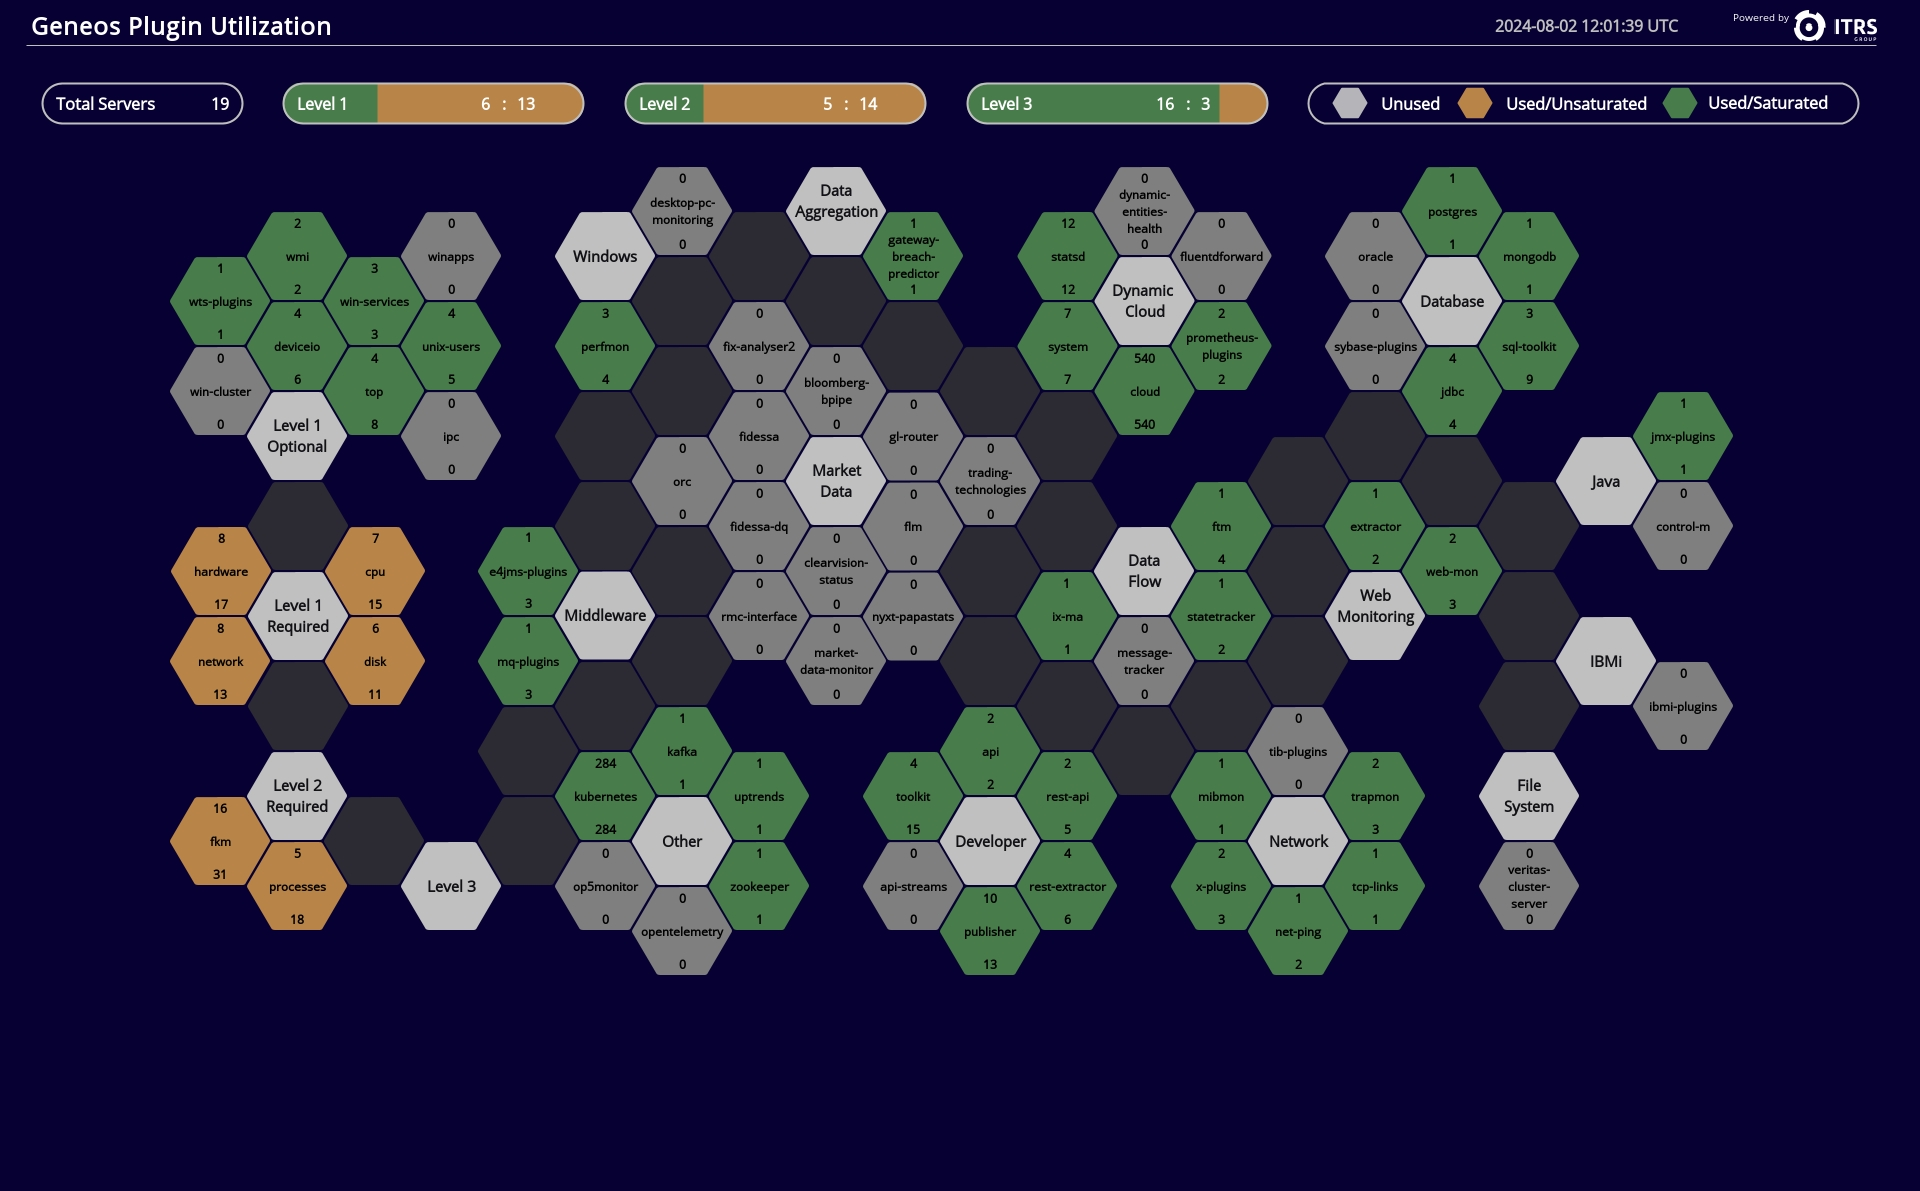
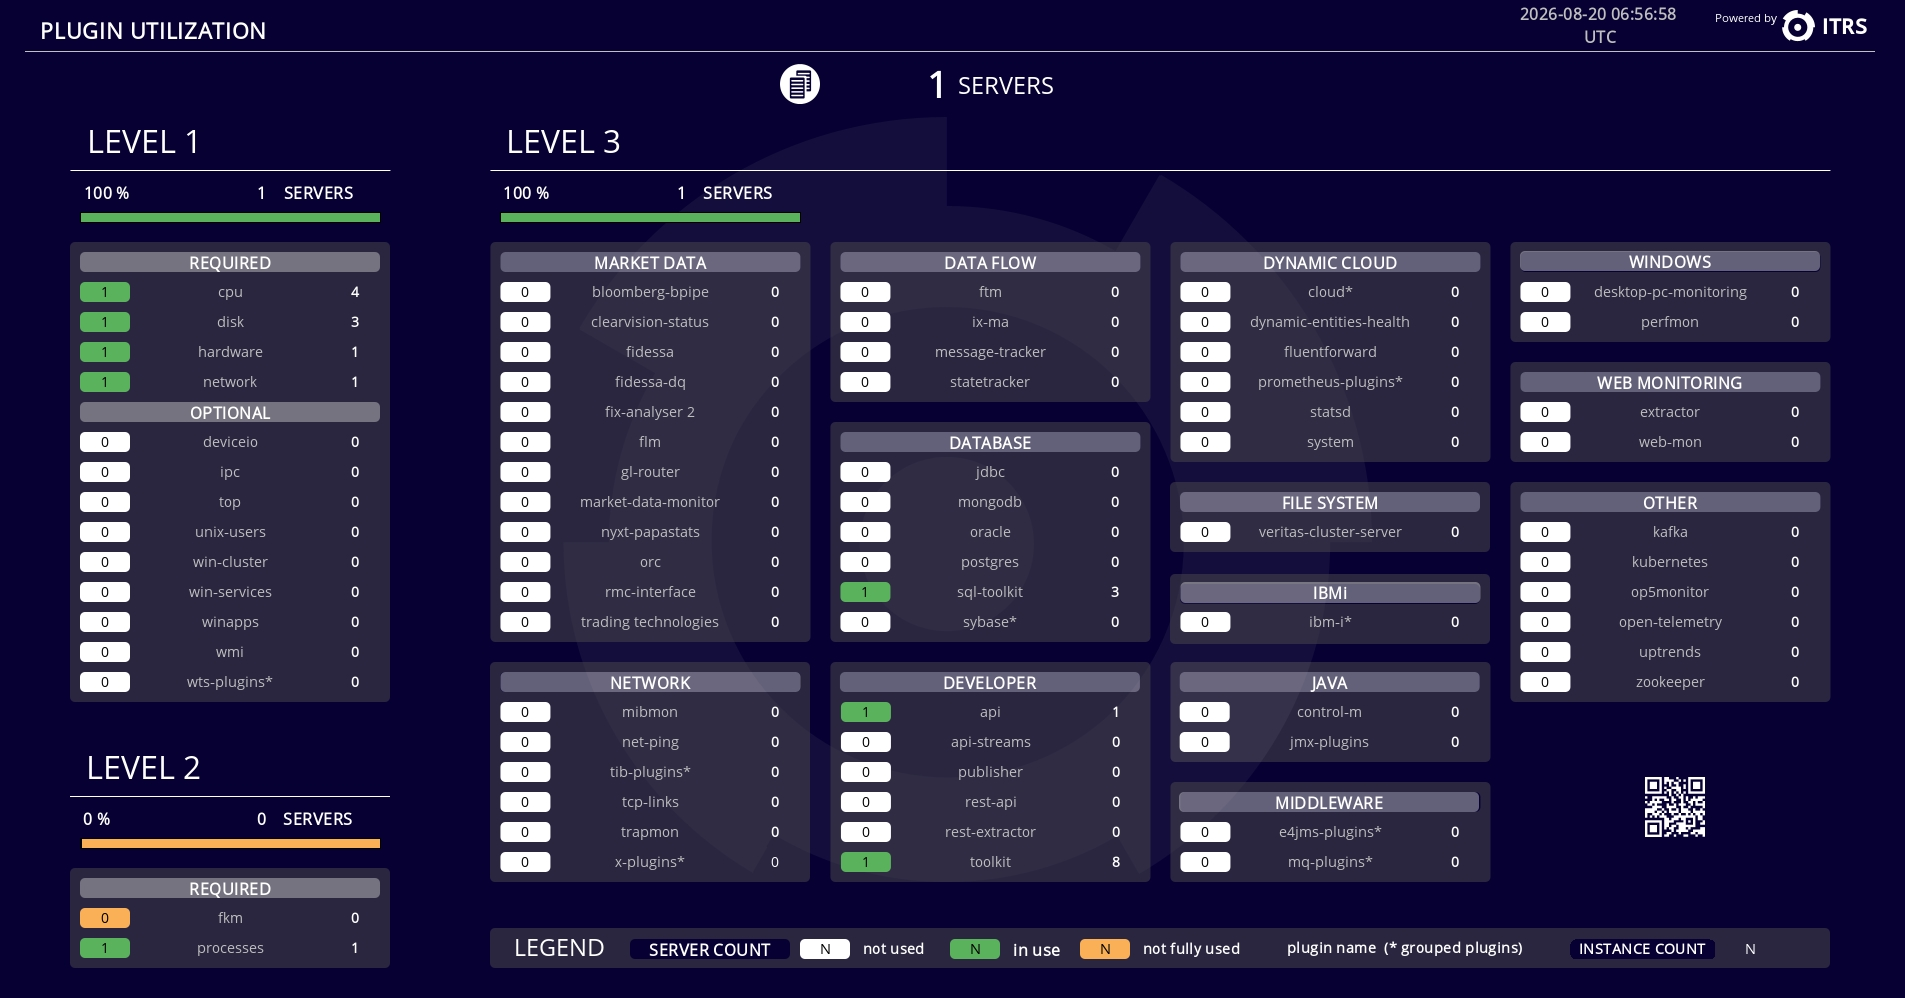
gdna: update screentshot and text related to plugin dashboard

diff --git a/gdna/README.md b/gdna/README.md
@@ -82,11 +82,11 @@ The first dashboard, Monitoring Coverage, gives an overview of all your Geneos G
 
 ### Plugin Utilization Dashboard
 
-The second dashboard, known as the "beehive", shows you a more in-depth view of individual plugin utilization:
+The second dashboard shows you a more in-depth view of individual plugin utilization:
 
 ![Plugin Utilization Example](screenshots/gdna-3.jpg)
 
-Each hexagon represents a specific plugin, grouped into logical segments. The numbers are how many individual plugin instances are deployed and how many separate servers they are deployed on.
+Each row represents a specific plugin, grouped into logical blocks. The numbers are how many individual plugin instances are deployed and how many separate servers they are deployed on.
 
 ### Version Summary Dashboard
 
